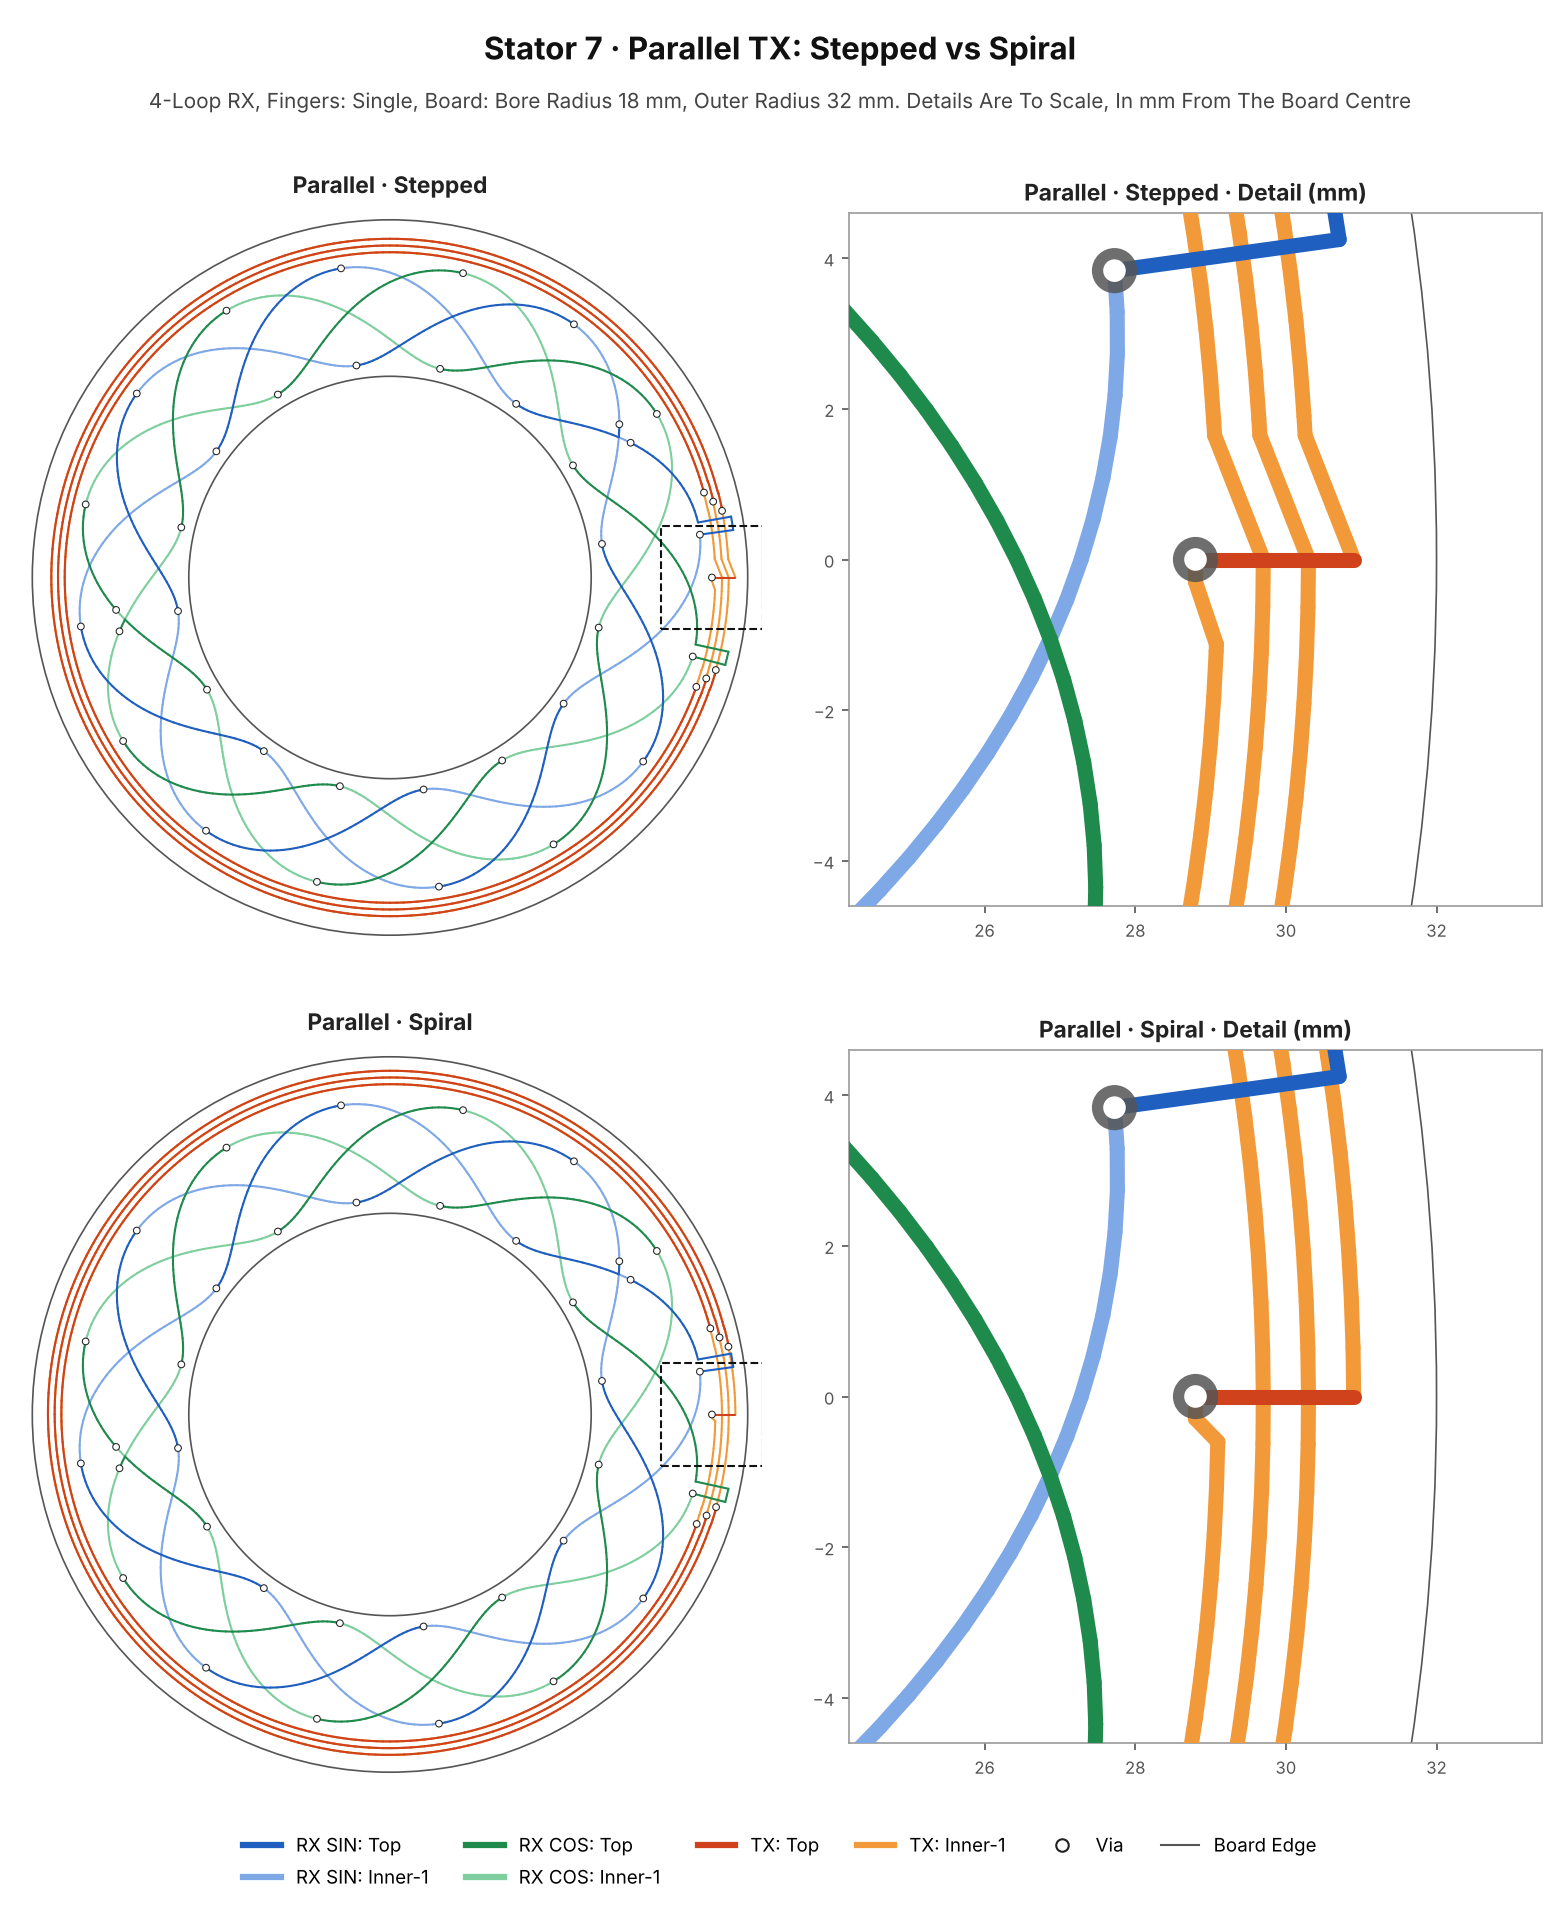
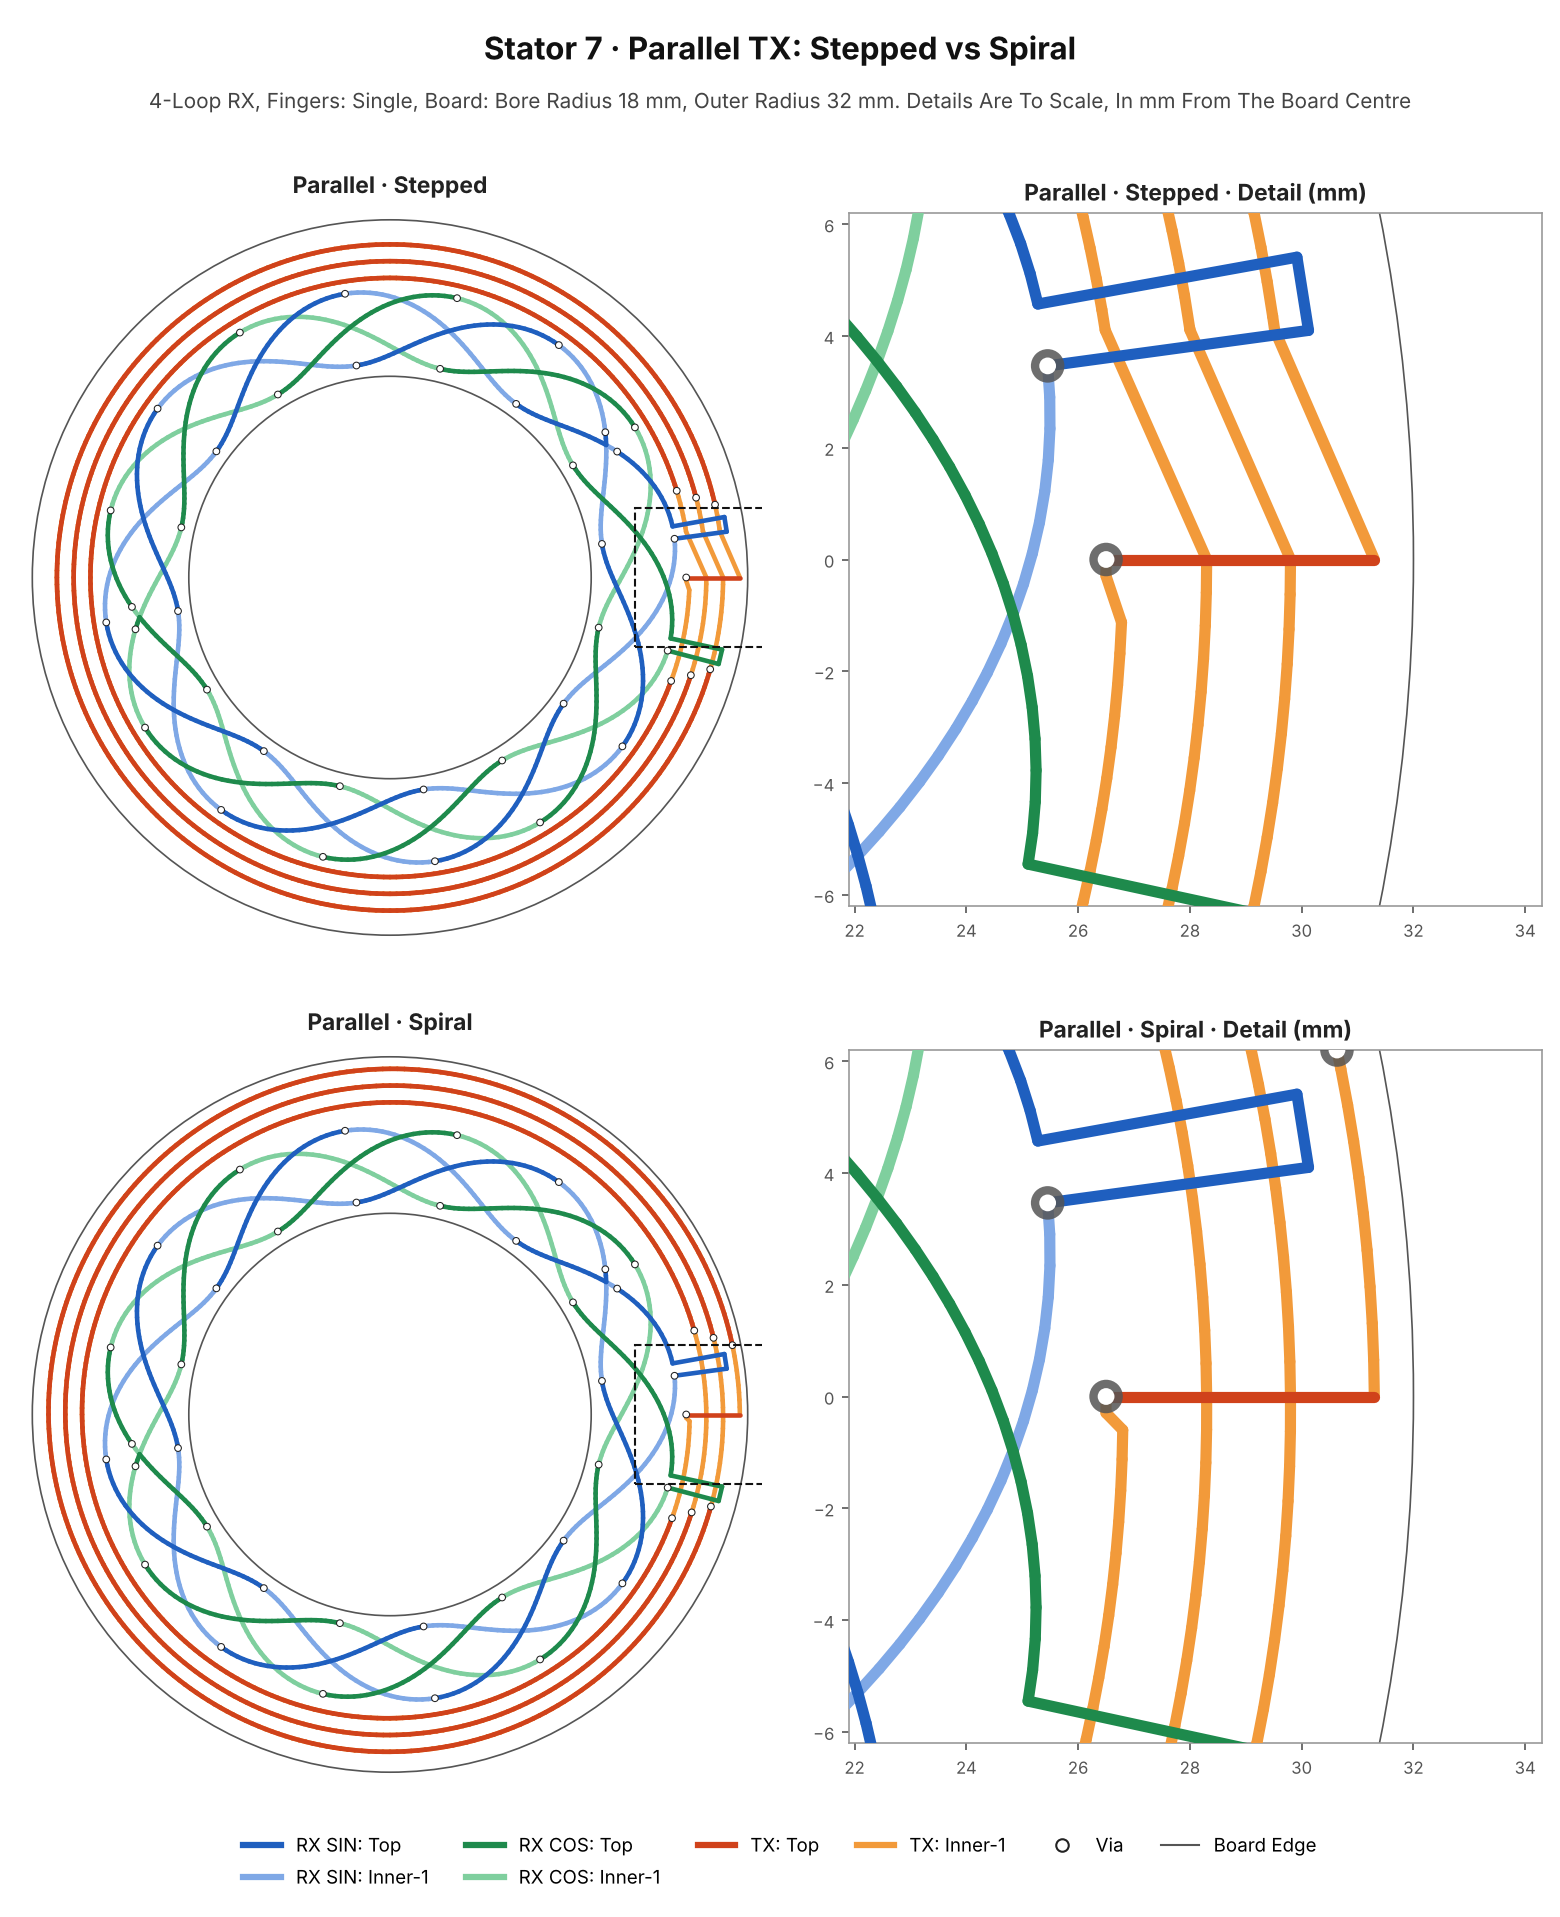
README: thicker traces and wider TX spacing in stator pictures, strike through Web Tool
Claude-Session: https://claude.ai/code/session_01QsthSjkqxFvP5ZhYoPcpQR

diff --git a/README.md b/README.md
@@ -586,11 +586,13 @@ period of the sensor lines up with one electrical period of the motor.
 | Upgrade | Description |
 |---|---|
 | **Desktop GUI** | A graphical interface in its own folder, built on top of the existing code without changing it. It will preview the coils as the parameters change and generate the KiCad boards. |
-| **Web Tool** | A browser version on my website that generates and downloads KiCad boards and footprints. |
+| ~~**Web Tool**~~ | ~~A browser version on my website that generates and downloads KiCad boards and footprints.~~ |
 | **Better Models From Real Hardware** | Measured boards will be used to correct the field, eddy-current and electrical models. Contributors with test equipment are very welcome. |
 | **Custom IC Section** | A more robust analyser with a configurable IC section, so that any receiver IC can be described and the generated coils checked against it. |
 | **Dual-IC Version** | Coils for two receiver ICs, giving redundancy and higher resolution (for example a 1-loop and a multi-loop track). |
 | **KiCad Plugin** | Packaging the generator as a KiCad add-on through the Plugin and Content Manager. |
+
+*Strike-through means done.*
 
 ---
 
